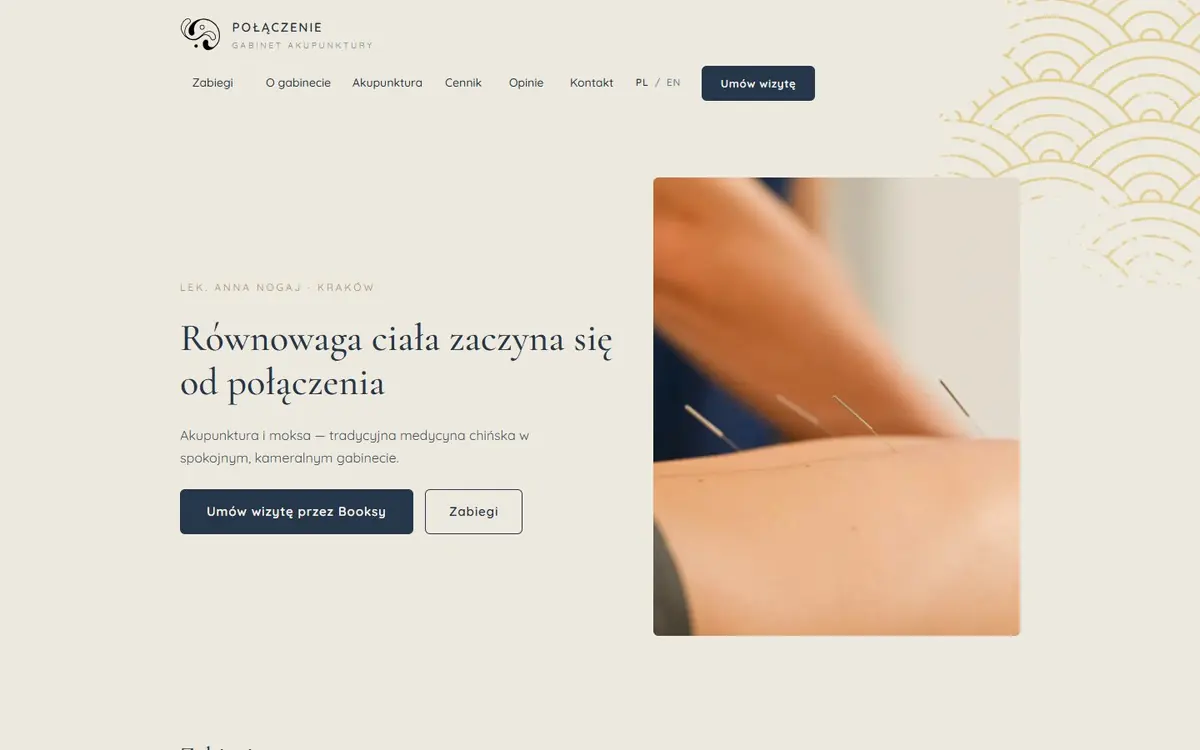
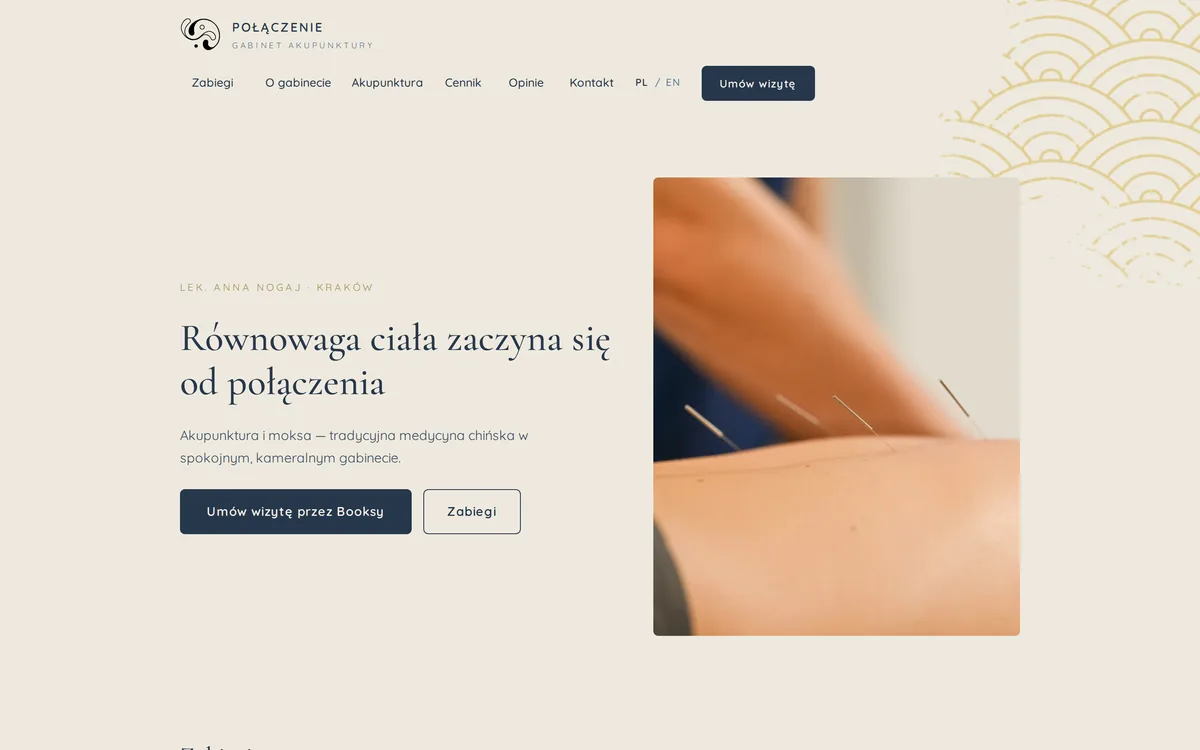
feat(web): re-shoot non-asini plates at DPR 2 and inset the phone view on cards

diff --git a/apps/web/src/routes/+page.svelte b/apps/web/src/routes/+page.svelte
@@ -1,7 +1,7 @@
 <script lang="ts">
 	import { onMount } from 'svelte';
 	import { kinds, kindOf } from '#lib/template-kinds';
-	import { platesFor } from '#lib/plates';
+	import { platesFor, phoneFor } from '#lib/plates';
 	import Radio from '#lib/Radio.svelte';
 
 	let { data } = $props();
@@ -1056,12 +1056,12 @@
 	const flagships = work.filter((w) => w.built);
 	const usedIn = (id: string) => [...work, ...websites].filter((w) => w.uses?.includes(id)).map((w) => w.name);
 	// Every smaller project renders as the same card: a picture, then the facts.
-	type Card = { id: string; name: string; tag: string; href: string; img?: string; tall?: boolean; live?: boolean; desc: string; specs: [string, string][]; uses?: string[]; growth?: Work['growth'] };
+	type Card = { id: string; name: string; tag: string; href: string; img?: string; phone?: string; tall?: boolean; live?: boolean; desc: string; specs: [string, string][]; uses?: string[]; growth?: Work['growth'] };
 	const others: Card[] = work
 		.filter((w) => !w.built)
-		.map((w) => ({ id: w.id, name: w.name, tag: w.kind, href: w.href, img: shot(w.id), desc: w.what, specs: w.proof ?? [], uses: w.uses }));
+		.map((w) => ({ id: w.id, name: w.name, tag: w.kind, href: w.href, img: shot(w.id), phone: phoneFor(w.id), desc: w.what, specs: w.proof ?? [], uses: w.uses }));
 	const siteCards = (basket: Site['basket']): Card[] =>
-		websites.filter((w) => w.basket === basket).map((w) => ({ ...w, img: platesFor(w.id, w.name)?.frames[0].src, tall: true }));
+		websites.filter((w) => w.basket === basket).map((w) => ({ ...w, img: platesFor(w.id, w.name)?.frames[0].src, phone: phoneFor(w.id), tall: true }));
 	const clients = siteCards('client');
 	const side = siteCards('side');
 	const groups = kinds
@@ -1124,6 +1124,7 @@
 		{:else if c.img}
 			<a class="shot" href={c.href} tabindex="-1" aria-hidden="true">
 				<img src={c.img} alt="" width="1200" height={c.tall ? 750 : 662} loading="lazy" />
+				{#if c.phone}<img class="phone" src={c.phone} alt="" width="390" height="844" loading="lazy" />{/if}
 			</a>
 		{/if}
 		<div class="site">
@@ -1970,8 +1971,24 @@
 		border-bottom: 0;
 	}
 	.shot {
+		position: relative;
 		display: block;
+		overflow: hidden;
 		border-bottom: var(--rule) solid var(--ink);
+	}
+	/* The same site on a phone, standing in the corner of the desktop shot. */
+	.sites img.phone {
+		position: absolute;
+		right: 5%;
+		bottom: 0;
+		width: auto;
+		height: 88%;
+		aspect-ratio: 390 / 844;
+		object-fit: cover;
+		object-position: top;
+		border: var(--rule) solid var(--ink);
+		border-bottom: 0;
+		background: var(--paper);
 	}
 	.sites img {
 		display: block;

diff --git a/apps/web/src/lib/plates.ts b/apps/web/src/lib/plates.ts
@@ -61,6 +61,9 @@ const fragmentsFor = (id: string, name: string): Plate[] | undefined => {
 	return list.length ? list : undefined;
 };
 
+/** The phone capture of a project, shown inset on its card. */
+export const phoneFor = (id: string) => file(`${id}-phone`);
+
 const live = (id: string, name: string): Plates => ({
 	frames: framesFor(id, name),
 	fragments: fragmentsFor(id, name),

diff --git a/apps/web/scripts/capture.py b/apps/web/scripts/capture.py
@@ -1,0 +1,60 @@
+"""Re-shoot plates from the live sites: python3 scripts/capture.py [id ...]
+
+Desktop: 1440x900 at DPR 2, scaled to 1200x750 (<id>-1.webp).
+Phone: 390x844 at DPR 2, kept at 780x1688 (<id>-phone.webp).
+Each file gets a .webp.json provenance note, as DESIGN.md asks.
+"""
+import io, json, re, sys
+from datetime import datetime, timezone
+from pathlib import Path
+from PIL import Image
+from playwright.sync_api import sync_playwright
+
+PLATES = Path(__file__).resolve().parent.parent / 'src/lib/plates'
+SITES = {
+    'fixtar': 'https://fixtar.pl',
+    'pikastro': 'https://pikastro.eu',
+    'wibroakustyka': 'https://wibroakustyka.ai',
+    'tutitutu': 'https://tutitutu.pl',
+    'intertech': 'https://intertechpoland.pl',
+    'polaczenie': 'https://gabinet-polaczenie.pl',
+    'kurcz': 'https://kurcz.pl',
+    'kruk': 'https://kruk.live',
+    'kompi': 'https://kompi.pl',
+}
+CONSENT = re.compile(r'^\s*(akceptuj|zaakceptuj|zgadzam|accept|allow all|ok|rozumiem)', re.I)
+HIDE = '::-webkit-scrollbar{display:none} html{scrollbar-width:none}'
+
+def shoot(browser, url, w, h):
+    page = browser.new_page(viewport={'width': w, 'height': h}, device_scale_factor=2,
+                            is_mobile=w < 500, has_touch=w < 500)
+    page.goto(url, wait_until='load', timeout=60000)
+    page.add_style_tag(content=HIDE)
+    for b in page.get_by_role('button').all():
+        try:
+            if b.is_visible() and CONSENT.match(b.inner_text(timeout=500)):
+                b.click(timeout=2000); break
+        except Exception:
+            pass
+    page.wait_for_timeout(2500)
+    png = page.screenshot()
+    page.close()
+    return Image.open(io.BytesIO(png))
+
+def save(img, name, note):
+    img.save(PLATES / f'{name}.webp', quality=82, method=6)
+    (PLATES / f'{name}.webp.json').write_text(json.dumps(
+        {'prompt': f'Live capture, not generated: {note}', 'createdAt': datetime.now(timezone.utc).isoformat()}, indent=2) + '\n')
+
+ids = sys.argv[1:] or list(SITES)
+day = datetime.now().date().isoformat()
+with sync_playwright() as p:
+    browser = p.chromium.launch()
+    for id in ids:
+        url = SITES[id]
+        save(shoot(browser, url, 1440, 900).resize((1200, 750), Image.LANCZOS), f'{id}-1',
+             f'{url} screenshotted with Playwright Chromium at 1440x900, DPR 2, scrollbars hidden, consent banner dismissed, on {day}; scaled to 1200x750 webp.')
+        save(shoot(browser, url, 390, 844), f'{id}-phone',
+             f'{url} screenshotted with Playwright Chromium at a 390x844 phone viewport, DPR 2, scrollbars hidden, consent banner dismissed, on {day}; kept at 780x1688 webp.')
+        print('ok', id)
+    browser.close()
